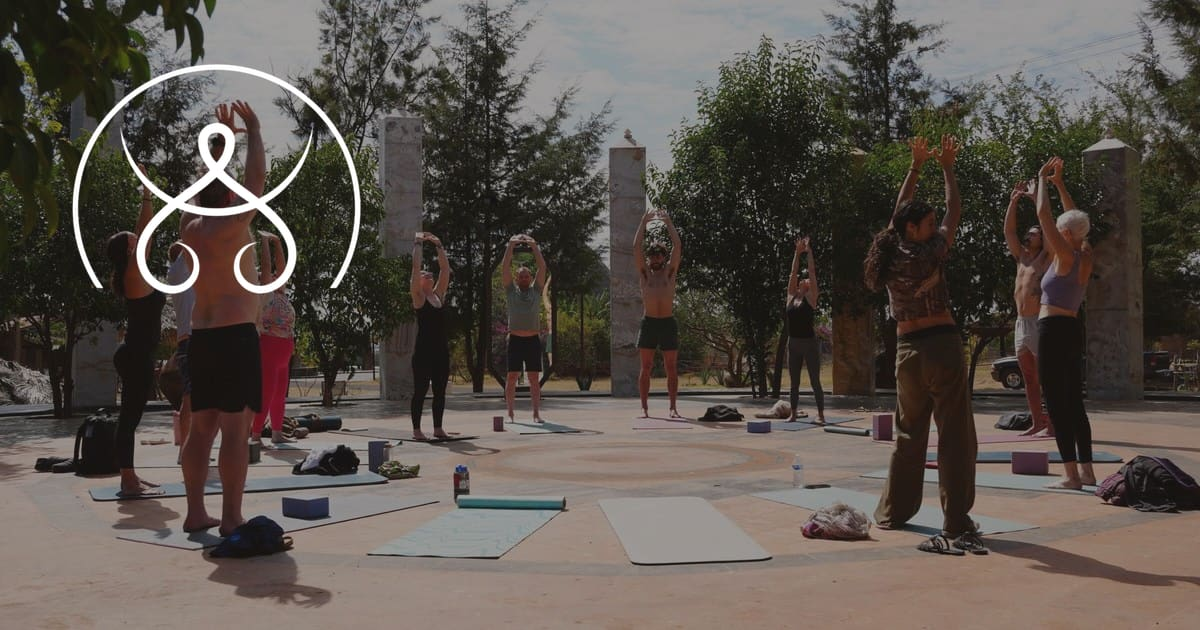
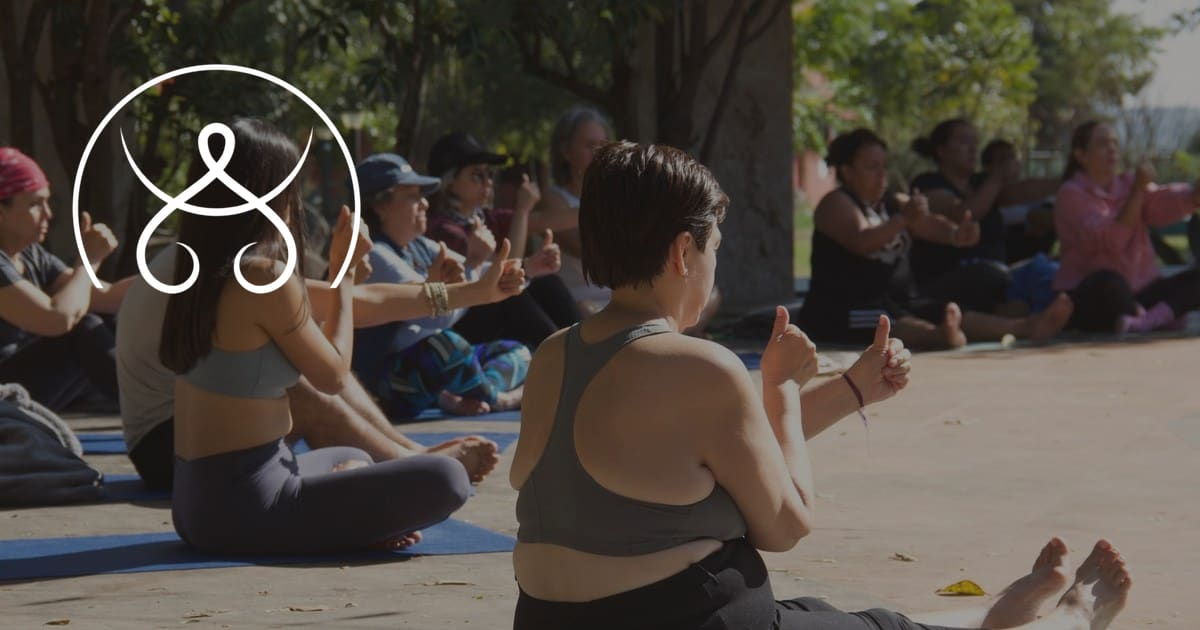
Fotos del retiro Mindfulness en la vida cotidiana (Viviendo a Tope) en Casos de éxito, Galería y su blog

diff --git a/src/content/blog/caso-viviendo-a-tope.es.md b/src/content/blog/caso-viviendo-a-tope.es.md
@@ -2,7 +2,7 @@
 title: "Caso de éxito: Mindfulness en la vida cotidiana, de Viviendo a Tope"
 description: "Juan Cruz y Antonio León llevaron su retiro de yoga y meditación Mindfulness en la vida cotidiana a Finca El Péndulo, cerca de Guadalajara, con 45 participantes."
 date: 2026-11-18
-image: yoga-matutino
+image: vat-yoga-terraza
 slug: caso-viviendo-a-tope
 pair: case-viviendo-a-tope
 og: post-caso-viviendo-a-tope

diff --git a/src/content/blog/caso-viviendo-a-tope.en.md b/src/content/blog/caso-viviendo-a-tope.en.md
@@ -2,7 +2,7 @@
 title: "Success story: Mindfulness in Everyday Life, by Viviendo a Tope"
 description: "Juan Cruz and Antonio León brought their yoga and meditation retreat Mindfulness in Everyday Life to Finca El Péndulo, near Guadalajara, Mexico, with 45 participants."
 date: 2026-11-18
-image: yoga-matutino
+image: vat-yoga-terraza
 slug: case-viviendo-a-tope
 pair: caso-viviendo-a-tope
 og: post-caso-viviendo-a-tope
